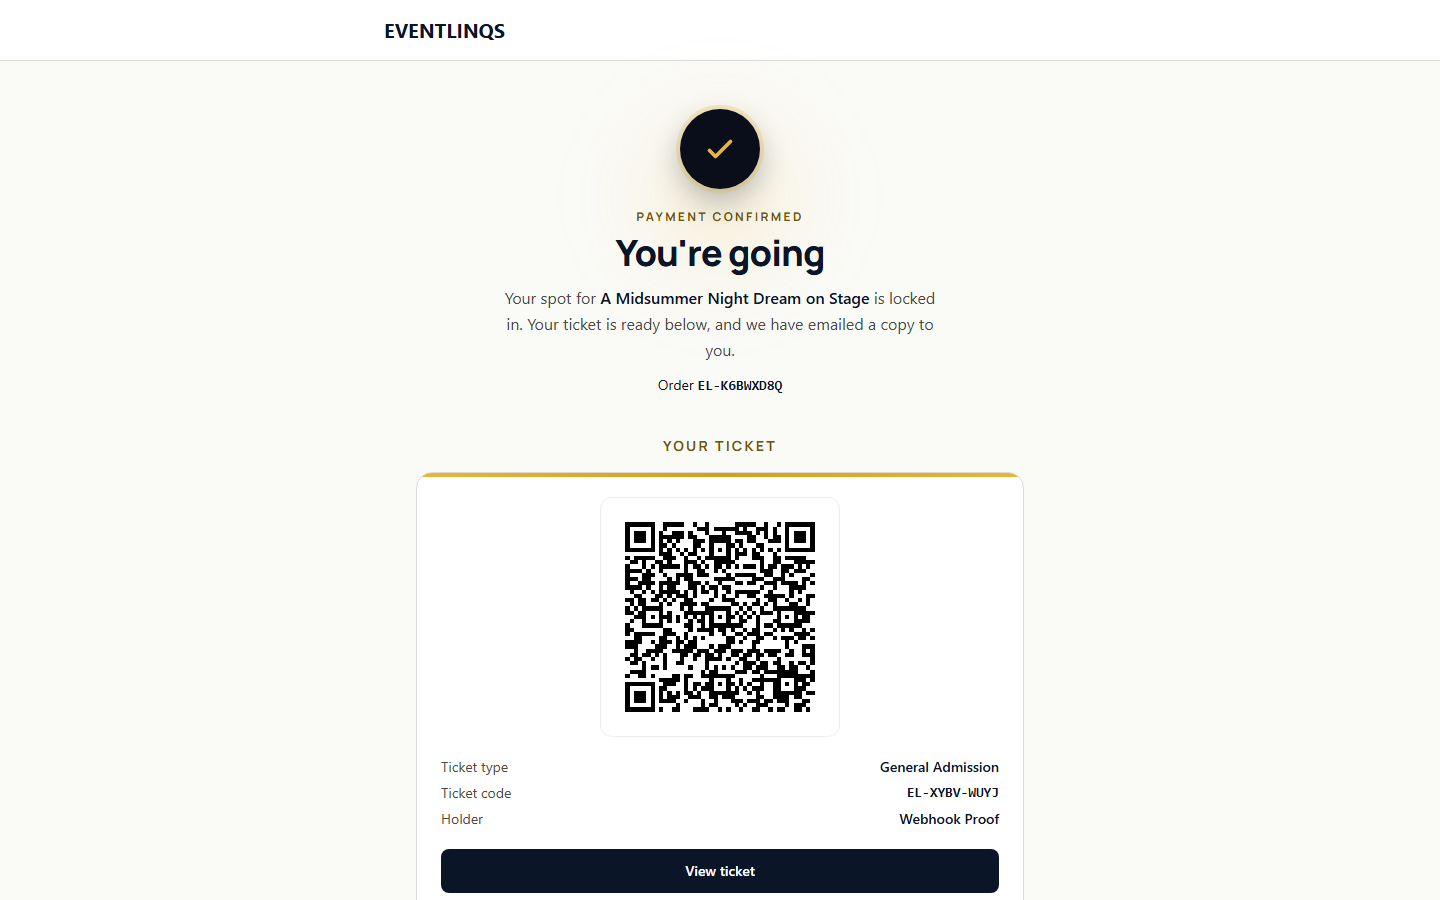
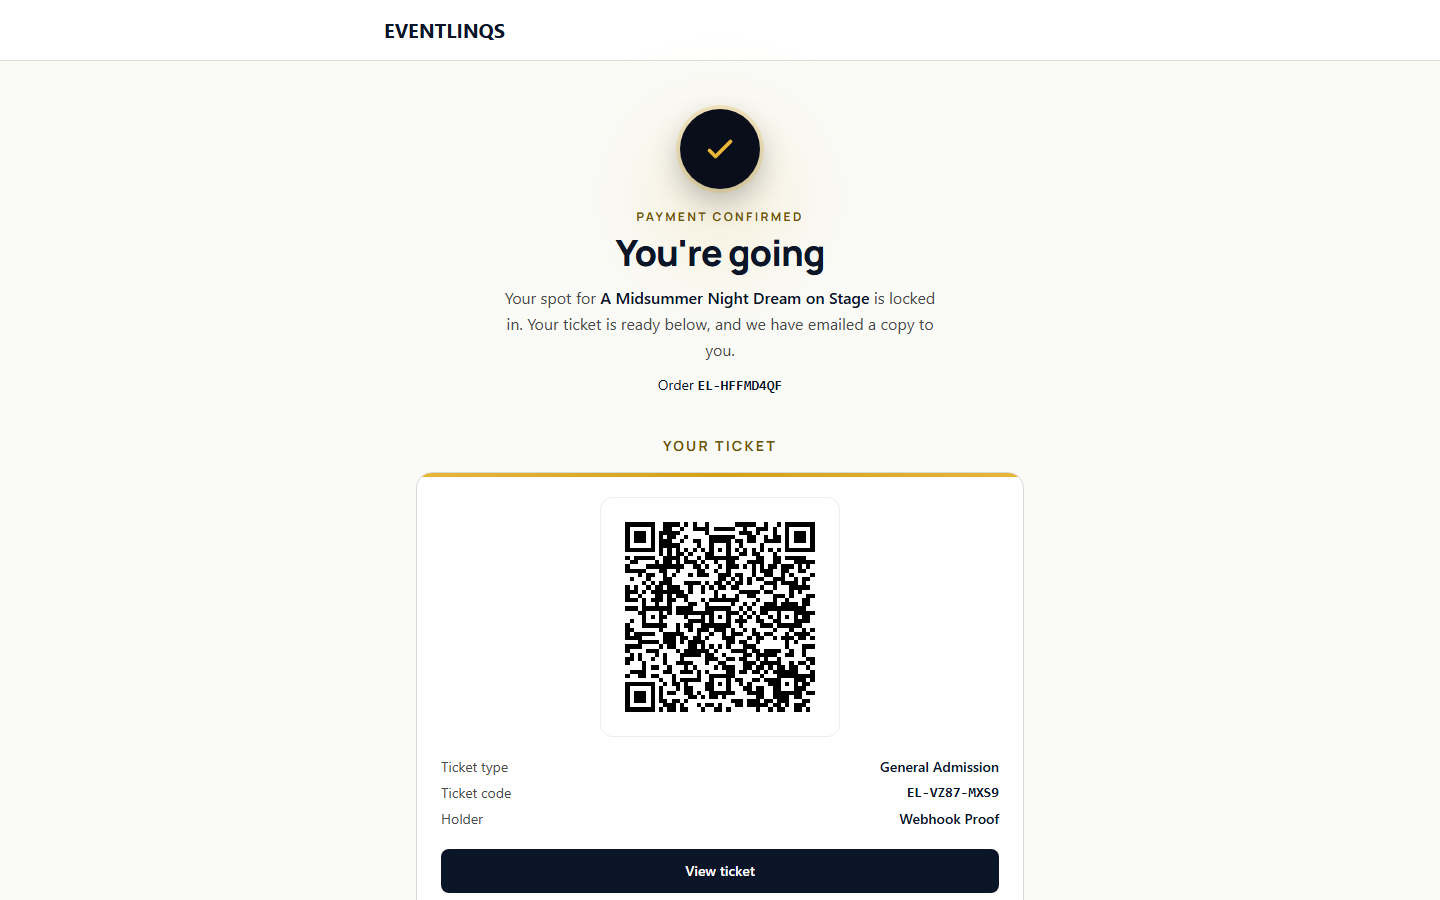
docs(verification): re-verify the whole battery against the final build
The branch moved after each job was proven, so the proofs were resting on
intermediate deployments. Re-ran everything against the last pushed commit
(f8d85e9, deployment eventlinqs-cxq0vbn33, now aliased to staging):

- build-time SUPABASE_ENV_ISOLATION guard passes
- served bundle: 752 TEST refs, 0 production refs, 0 service_role markers
- both webhook secrets verify 200, corrupted and drifted secrets still 400
- a SECOND paid purchase confirms end to end (EL-HFFMD4QF, 3s, 1 ticket), so
  the result is reproducible rather than a one-off

Production hosts re-probed and deliberately unchanged: the canonical 301 is
unit tested and on staging only, because promoting the branch needs founder
sign-off.

Changed region(s): [[0.4375, 0.5911, 0.5625, 0.8089], [0.5, 0.4044, 0.5625, 0.4356], [0.6562, 0.8711, 0.6875, 0.9022]]

diff --git a/docs/verification/blockers-round-2-2026-07-25.md b/docs/verification/blockers-round-2-2026-07-25.md
@@ -486,11 +486,61 @@ These are NOT done and are not claimed as done.
 ## Gates
 
 - `npx tsc --noEmit` exit 0
-- `npx eslint src scripts` exit 0 (9 pre-existing warnings, 0 errors)
-- `npx vitest run` **765 passed / 765**, 94 files
-- Disk free before deploy: 24 GB (guard is 1.5 GB)
+- `npx eslint src scripts tests` exit 0 (9 pre-existing warnings, 0 errors)
+- `npx vitest run` **783 passed / 783**, 95 files
+- Disk free: 24.4 GB (guard is 1.5 GB)
 
 Two existing tests failed on first run and were rewritten, not deleted: both
 encoded the superseded HARD-01 ruling (apex -> `www.eventlinqs.com`, 308).
 `canonical-host-redirect.test.ts` now covers all three redirected hosts plus
 the three exemptions.
+
+Note on the count: an unrelated concurrent session was committing to this same
+branch during the work (`bc1465a`, `b253057`, and the unpushed `782c09c`). The
+suite total moved 765 -> 783 because of their new test file, not because of a
+change here. Their in-progress files were deliberately kept OUT of these
+commits: the first attempt at the URL-sweep commit swept in four legal pages
+and `checkout-form.tsx`, and was amended to exclude them.
+
+---
+
+## FINAL RE-VERIFICATION (against the last pushed commit)
+
+Everything above was proven as each job landed. Because the branch moved
+afterwards, the whole battery was re-run against the FINAL artefact rather
+than left resting on intermediate builds.
+
+Deployment `eventlinqs-cxq0vbn33`, built from `f8d85e9` (which also contains
+the concurrent session's `bc1465a` and `b253057`), aliased to
+`eventlinqs-staging.vercel.app`.
+
+| Check | Result |
+|---|---|
+| Build-time `SUPABASE_ENV_ISOLATION` guard | `[public-env] ok SUPABASE_ENV_ISOLATION` |
+| Served bundle: TEST project ref | 752 occurrences |
+| Served bundle: PRODUCTION project ref | **0 occurrences** |
+| Served bundle: `service_role` markers | **0 occurrences** |
+| Webhook, account endpoint secret | **200** `{"received":true}` |
+| Webhook, connected-accounts endpoint secret | **200** `{"received":true}` |
+| Webhook, corrupted signature | **400** `{"error":"Invalid signature"}` |
+| Webhook, old drifted secret | **400** `{"error":"Invalid signature"}` |
+| Stripe endpoints at the staging host | 1 account + 1 connected-account enabled, 3 disabled |
+| Paid purchase end to end | **PASS** order `EL-HFFMD4QF`, confirmed in 3s, 1 ticket |
+
+The paid purchase is a SECOND, independent order (the first was
+`EL-K6BWXD8Q` on the previous build), so the result is reproducible rather
+than a one-off.
+
+Production hosts were re-probed and are deliberately UNCHANGED, because the
+branch has not been promoted:
+
+```
+eventlinqs.com        -> 308 https://www.eventlinqs.com/
+www.eventlinqs.com    -> 200
+eventlinqs.com.au     -> 200
+www.eventlinqs.com.au -> 200
+```
+
+That is the old behaviour, and it is what production will keep serving until
+the branch is promoted with founder sign-off. The canonical 301 is proven by
+unit test and deployed to staging only.
